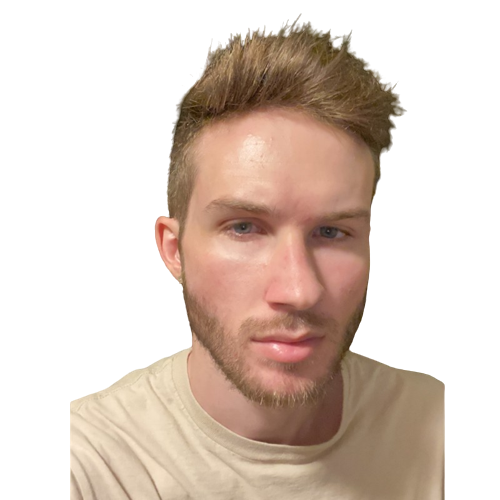
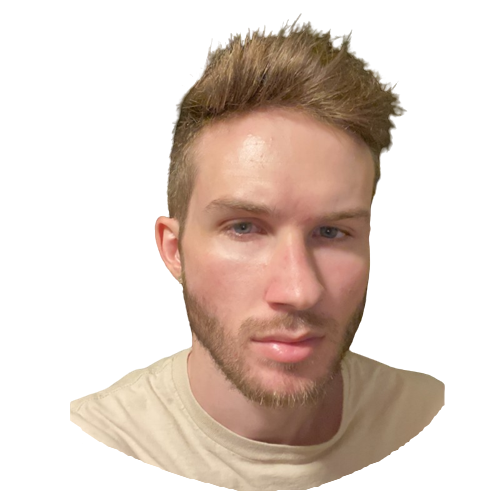
updated styling

diff --git a/frontend_react/src/container/Header/Header.scss b/frontend_react/src/container/Header/Header.scss
@@ -1,9 +1,5 @@
 #home {
     position: relative;
-    background: url("../../assets/bgIMG.png");
-    background-size: cover;
-    background-position: center;
-    background-repeat: repeat;
   
     // disable the default padding styles
     .app__wrapper {
@@ -63,7 +59,7 @@
     .badge-cmp,
     .tag-cmp {
       padding: 1rem 2rem;
-      background: var(--white-color);
+      background: var(--darkmode-color);
       border-radius: 15px;
       flex-direction: row;
       width: auto;
@@ -72,6 +68,13 @@
 
       &:hover {
         box-shadow: 0 0 25px #7300d1;
+      }
+
+      h1 {
+        color: white;
+      }
+      p {
+        color: white;
       }
     }
   
@@ -114,7 +117,7 @@
       height: 100px;
       border-radius: 50%;
   
-      background: var(--white-color);
+      background: var(--darkmode-color);
       box-shadow: 0px 0px 20px rgba(0, 0, 0, 0.1);
   
       img {
@@ -188,7 +191,7 @@
       height: 100px;
       border-radius: 50%;
   
-      background: var(--white-color);
+      background: var(--darkmode-color);
       box-shadow: 0px 0px 20px rgba(0, 0, 0, 0.1);
   
       img {
@@ -252,34 +255,31 @@
     flex: 1;
     height: 100%;
     display: flex;
-    justify-content: flex-end;
-    align-items: flex-end;
+    justify-content:center;
+    align-items:center;
     position: relative;
 
-    img {
-      height: 100%;
-      width: 90%;
-      object-fit: contain;
-      z-index: 1;
+    div {
+      width: 100px;
+      height: 100px;
+      border-radius: 50%;
+  
+      background: var(--darkmode-color);
+      box-shadow: 0px 0px 20px rgba(0, 0, 0, 0.1);
+  
+      img {
+        width: 100%;
+        height: 100%;
+      }
+
+      &:hover {
+        box-shadow: 0 0 25px #7300d1;
+      }
     }
 
-    .overlay_pic {
-      position: relative;
-      left: 0;
-      right: 0;
-      bottom: 0;
-      z-index: 1;
-      padding-right: 100px;    
-    }
-  
-    .overlay_circle {
-      position: absolute;
-      left: 0;
-      right: 0;
-      bottom: 0;
-      z-index: 0;
-      width: 100%;
-      height: 90%;
+    div:nth-child(1) {
+      width: 400px;
+      height: 400px;
     }
   
     @media screen and (max-width: 1200px) {

diff --git a/frontend_react/src/App.scss b/frontend_react/src/App.scss
@@ -11,6 +11,10 @@
   background-color: var(--primary-color);
 }
 
+.app__darkbg {
+  background-color: var(--black-color);
+}
+
 .app__container {
   width: 100%;
   min-height: 100vh;
@@ -30,7 +34,7 @@
   width: 100%;
   flex-direction: column;
   padding: 4rem 2rem;
-
+  
   @media screen and (max-width: 450px) {
     padding: 4rem 1rem 2rem;
   }
@@ -47,7 +51,8 @@
 
   p {
     text-transform: uppercase;
-    color: var(--black-color);
+    color: var(--white-color);
+
   }
 }
 
@@ -55,7 +60,7 @@
   font-size: 2.75rem;
   font-weight: 800;
   text-align: center;
-  color: var(--black-color);
+  color: var(--white-color);
   text-transform: capitalize;
 
   span {
@@ -74,7 +79,7 @@
 .p-text {
   font-size: 0.8rem;
   text-align: left;
-  color: var(--gray-color);
+  color: var(--white-color);
   line-height: 1.5;
 
   @media screen and (min-width: 2000px) {
@@ -85,7 +90,7 @@
 .bold-text {
   font-size: 1rem;
   font-weight: 800;
-  color: var(--black-color);
+  color: var(--white-color);
   text-align: left;
 
   @media screen and (min-width: 2000px) {
@@ -109,9 +114,9 @@
     width: 40px;
     height: 40px;
     border-radius: 50%;
-    background-color: var(--white-color);
+    background-color: var(--darkmode-color);
     margin: 0.25rem 0;
-    border: 1px solid var(--lightGray-color);
+    border: 1px solid var(--darkmode-color);
 
     display: flex;
     justify-content: center;
@@ -122,7 +127,7 @@
     svg {
       width: 15px;
       height: 15px;
-      color: var(--gray-color);
+      color: var(--white-color);
     }
 
     &:hover {

diff --git a/frontend_react/src/container/Header/Header.jsx b/frontend_react/src/container/Header/Header.jsx
@@ -37,7 +37,7 @@ const Header = () => (
       <div className="app__header-badge">
         <div className="badge-cmp app__flex">
           <span>👋</span>
-          <div style={{ marginLeft: 20 }}>
+          <div style={{ marginLeft: 20}}>
             <p className="p-text">Hi, My Name is</p>
             <h1 className="head-text">Ryan</h1>
           </div>
@@ -74,20 +74,9 @@ const Header = () => (
       transition={{ duration: 0.5, delayChildren: 0.5 }}
       className="app__header-img"
     >
-      <motion.img
-        whileInView={{ scale: [0, 1] }}
-        transition={{ duration: 1.5, ease: 'easeInOut' }}
-        src={images.profile}
-        alt="profile_circle"
-        className="overlay_pic"
-      />
-      <motion.img
-        whileInView={{ scale: [0, 1] }}
-        transition={{ duration: 1.5, ease: 'easeInOut' }}
-        src={images.circle}
-        alt="profile_circle"
-        className="overlay_circle"
-      />
+      <div className="circle-cmp app__flex">
+        <img src={images.profile} alt="profile_bg" />
+      </div>
     </motion.div>
 
     <motion.div
@@ -104,4 +93,4 @@ const Header = () => (
   </div>
 );
 
-export default AppWrap(Header, 'home');
+export default AppWrap(Header, 'home', "app__darkbg");

diff --git a/frontend_react/src/container/Work/Work.scss b/frontend_react/src/container/Work/Work.scss
@@ -16,8 +16,8 @@
     .app__work-filter-item {
       padding: 0.5rem 1rem;
       border-radius: 0.5rem;
-      background-color: #fff;
-      color: #000;
+      background-color: var(--darkmode-color);
+      color: #FFF;
       font-weight: 800;
   
       cursor: pointer;
@@ -26,18 +26,19 @@
   
       &:hover {
         background-color: var(--secondary-color);
-        color: #fff;
+        color: #000;
       }
   
       @media screen and (min-width: 2000px) {
         padding: 1rem 2rem;
         border-radius: 0.85rem;
       }
+      
     }
   
     .item-active {
       background-color: var(--secondary-color);
-      color: #fff;
+      color: #000;
     }
   }
   
@@ -54,7 +55,7 @@
       margin: 2rem;
       padding: 1rem;
       border-radius: 0.5rem;
-      background-color: #fff;
+      background-color: var(--darkmode-color);
       color: #000;
   
       cursor: pointer;
@@ -154,7 +155,7 @@
   
       padding: 0.5rem 1rem;
       border-radius: 10px;
-      background-color: #fff;
+      background-color: #8300cf;
       top: -25px;
     }
   }  

diff --git a/frontend_react/src/container/Footer/Footer.scss b/frontend_react/src/container/Footer/Footer.scss
@@ -27,7 +27,7 @@
       padding: 1rem;
       border-radius: 10px;
       cursor: pointer;
-      background-color: #ffffff;
+      background-color: var(--darkmode-color);
   
       transition: all 0.3s ease-in-out;
   
@@ -69,7 +69,7 @@
       margin: 0.75rem 0;
       border-radius: 10px;
       cursor: pointer;
-      background-color: var(--primary-color);
+      background-color: var(--darkmode-color);
   
       transition: all 0.3s ease-in-out;
   
@@ -79,10 +79,10 @@
         padding: 0.95rem;
         border: none;
         border-radius: 7px;
-        background-color: var(white);
+        background-color: var(--darkmode-color);
   
         font-family: var(--font-base);
-        color: var(--secondary-color);
+        color: var(--white-color);
         outline: none;
       }
   

diff --git a/frontend_react/src/container/Skills/Skills.scss b/frontend_react/src/container/Skills/Skills.scss
@@ -49,7 +49,7 @@
       width: 90px;
       height: 90px;
       border-radius: 50%;
-      background-color: #fef4f5;
+      background-color: #1D2226;
   
       img {
         width: 50%;
@@ -123,7 +123,7 @@
   
       p {
         font-weight: 400;
-        color: var(--gray-color);
+        color: var(--white-color);
         margin-top: 5px;
       }
     }

diff --git a/frontend_react/src/container/Work/Work.jsx b/frontend_react/src/container/Work/Work.jsx
@@ -107,6 +107,6 @@ const Work = () => {
 };
 
 export default AppWrap(
-  MotionWrap(Work, 'app__works'),
-  'work',
+  MotionWrap(Work, 'app__works', 'app__darkbg'),
+  'work', 'app__darkbg'
 );

diff --git a/frontend_react/src/index.css b/frontend_react/src/index.css
@@ -10,7 +10,7 @@
   --gray-color: #2c2c2c;
   --brown-color: #46364a;
   --white-color: #ffffff;
-  --darkmode-color: #1d1c1c;
+  --darkmode-color: #1D2226;
   --hover-color: #3b025c;
 }
 

diff --git a/frontend_react/src/container/Skills/Skills.jsx b/frontend_react/src/container/Skills/Skills.jsx
@@ -81,5 +81,5 @@ const Skills = () => {
 export default AppWrap(
   MotionWrap(Skills, 'app__skills'),
   'skills',
-  'app__whitebg',
+  'app__darkbg',
 );

diff --git a/frontend_react/src/container/Footer/Footer.jsx b/frontend_react/src/container/Footer/Footer.jsx
@@ -85,5 +85,5 @@ const Footer = () => {
 
 export default AppWrap(
   MotionWrap(Footer, 'app__footer'),
-  'contact',
+  'contact', "app__darkbg"
 );
